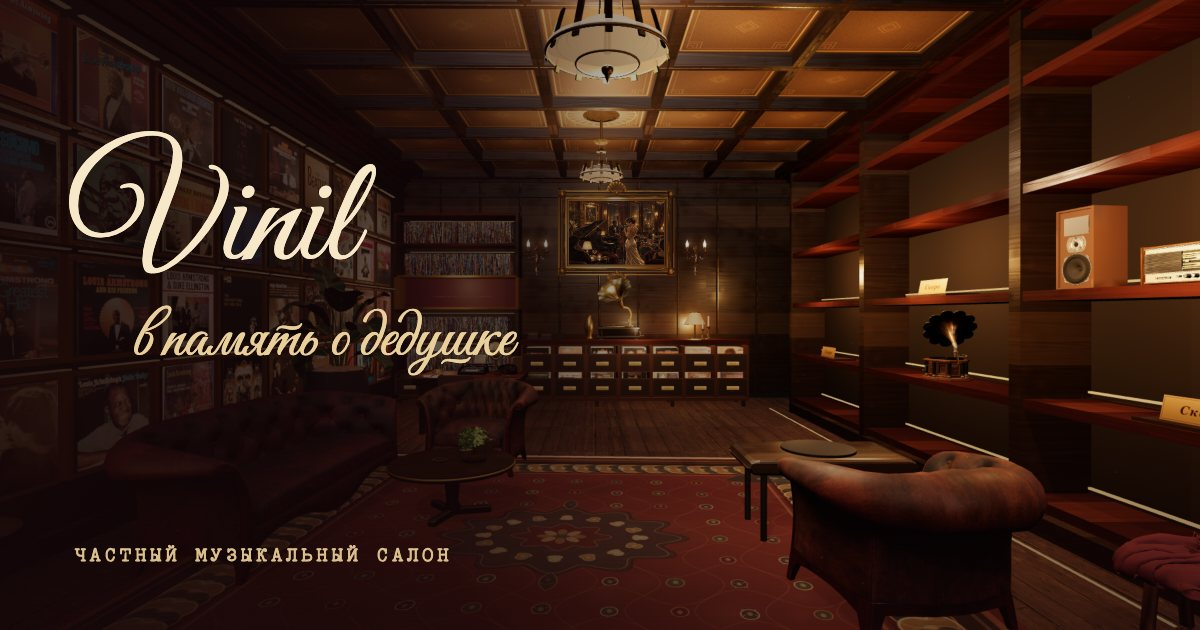
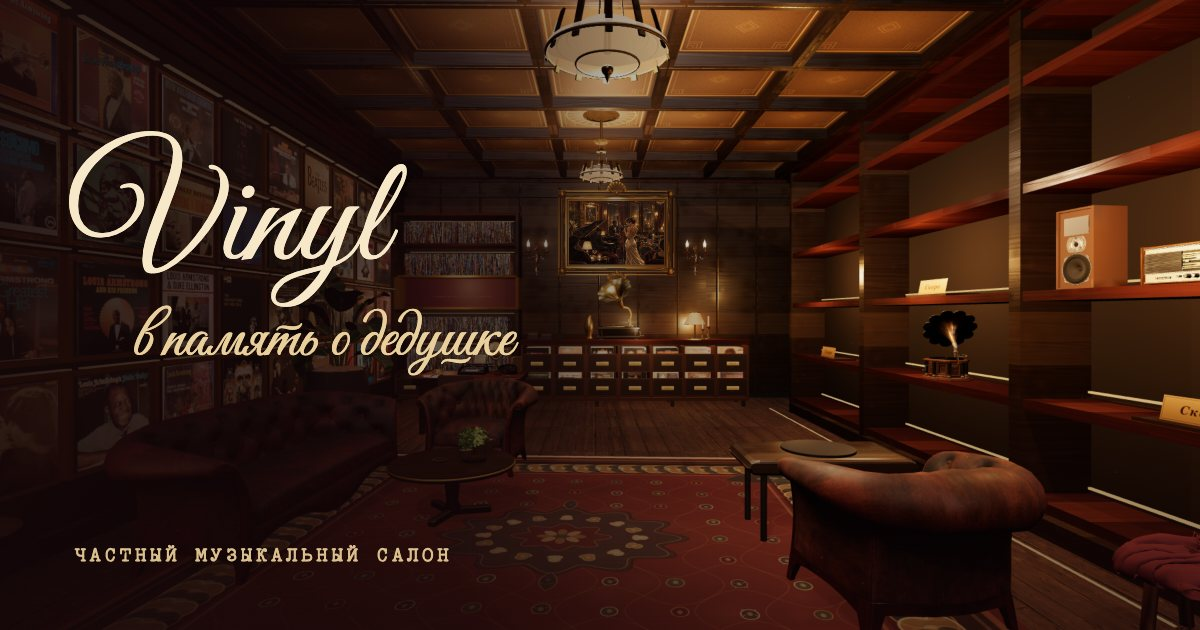
Use Vinyl branding in share preview

Changed region(s): [[0.2158, 0.2413, 0.3392, 0.4825]]

diff --git a/index.html b/index.html
@@ -3,23 +3,23 @@
 <head>
   <meta charset="utf-8">
   <meta name="viewport" content="width=device-width, initial-scale=1">
-  <title>Vinil - в память о дедушке</title>
-  <meta name="description" content="Загляните в музыкальный салон Vinil - комнату в духе джазового клуба 1930-х с семейной коллекцией пластинок. Слушайте и находите любимые записи.">
+  <title>Vinyl - в память о дедушке</title>
+  <meta name="description" content="Загляните в музыкальный салон Vinyl - комнату в духе джазового клуба 1930-х с семейной коллекцией пластинок. Слушайте и находите любимые записи.">
   <meta property="og:type" content="website">
-  <meta property="og:site_name" content="Vinil">
+  <meta property="og:site_name" content="Vinyl">
   <meta property="og:locale" content="ru_RU">
-  <meta property="og:title" content="Vinil - в память о дедушке">
-  <meta property="og:description" content="Загляните в музыкальный салон Vinil - комнату в духе джазового клуба 1930-х с семейной коллекцией пластинок. Слушайте и находите любимые записи.">
+  <meta property="og:title" content="Vinyl - в память о дедушке">
+  <meta property="og:description" content="Загляните в музыкальный салон Vinyl - комнату в духе джазового клуба 1930-х с семейной коллекцией пластинок. Слушайте и находите любимые записи.">
   <meta property="og:url" content="https://play.marianna-web.ru/">
   <meta property="og:image" content="https://marianna143.github.io/vinil-share/og-image.jpg">
   <meta property="og:image:secure_url" content="https://marianna143.github.io/vinil-share/og-image.jpg">
   <meta property="og:image:type" content="image/jpeg">
   <meta property="og:image:width" content="1200">
   <meta property="og:image:height" content="630">
-  <meta property="og:image:alt" content="Музыкальный салон Vinil с семейной коллекцией пластинок">
+  <meta property="og:image:alt" content="Музыкальный салон Vinyl с семейной коллекцией пластинок">
   <meta name="twitter:card" content="summary_large_image">
-  <meta name="twitter:title" content="Vinil - в память о дедушке">
-  <meta name="twitter:description" content="Загляните в музыкальный салон Vinil - комнату в духе джазового клуба 1930-х с семейной коллекцией пластинок. Слушайте и находите любимые записи.">
+  <meta name="twitter:title" content="Vinyl - в память о дедушке">
+  <meta name="twitter:description" content="Загляните в музыкальный салон Vinyl - комнату в духе джазового клуба 1930-х с семейной коллекцией пластинок. Слушайте и находите любимые записи.">
   <meta name="twitter:image" content="https://marianna143.github.io/vinil-share/og-image.jpg">
   <meta name="theme-color" content="#171a14">
   <style>
@@ -35,10 +35,10 @@
 </head>
 <body>
   <main>
-    <img src="og-image.jpg" alt="Музыкальный салон Vinil" width="1200" height="630">
-    <h1>Vinil</h1>
+    <img src="og-image.jpg" alt="Музыкальный салон Vinyl" width="1200" height="630">
+    <h1>Vinyl</h1>
     <p>Семейная коллекция пластинок в музыкальном салоне в духе джазового клуба 1930-х.</p>
-    <a href="https://vinil.marianna-web.ru/">Открыть Vinil</a>
+    <a href="https://vinil.marianna-web.ru/">Открыть Vinyl</a>
   </main>
   <script>
     if (!/bot|crawler|spider|preview|slurp/i.test(navigator.userAgent)) {
